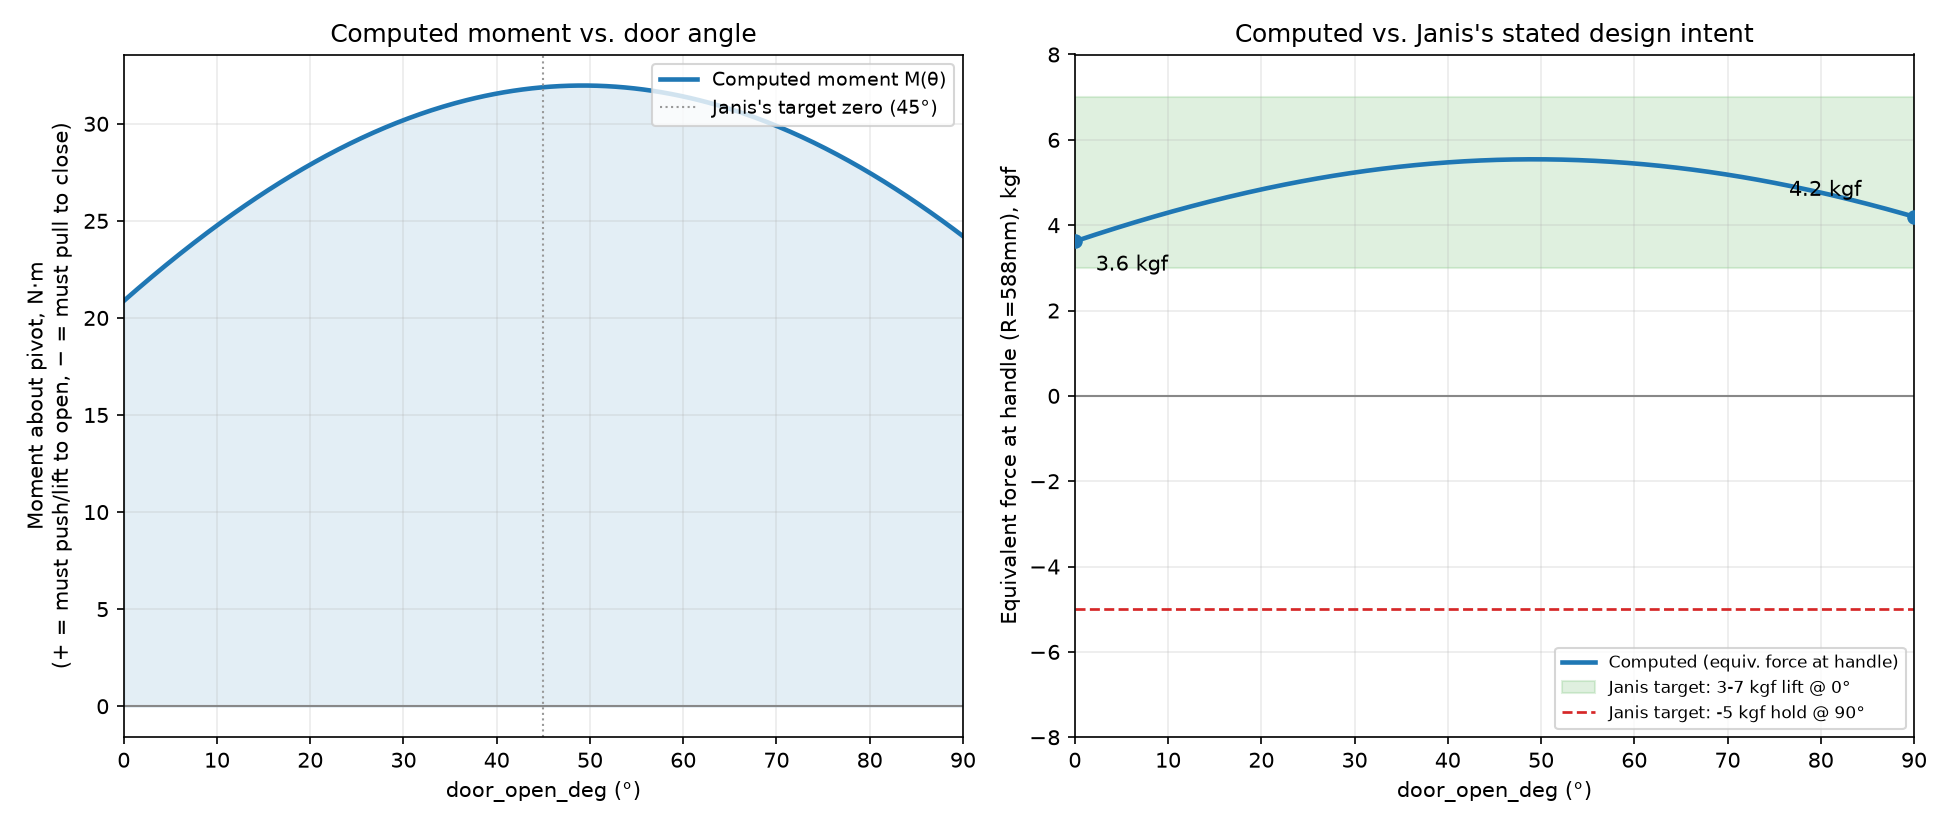
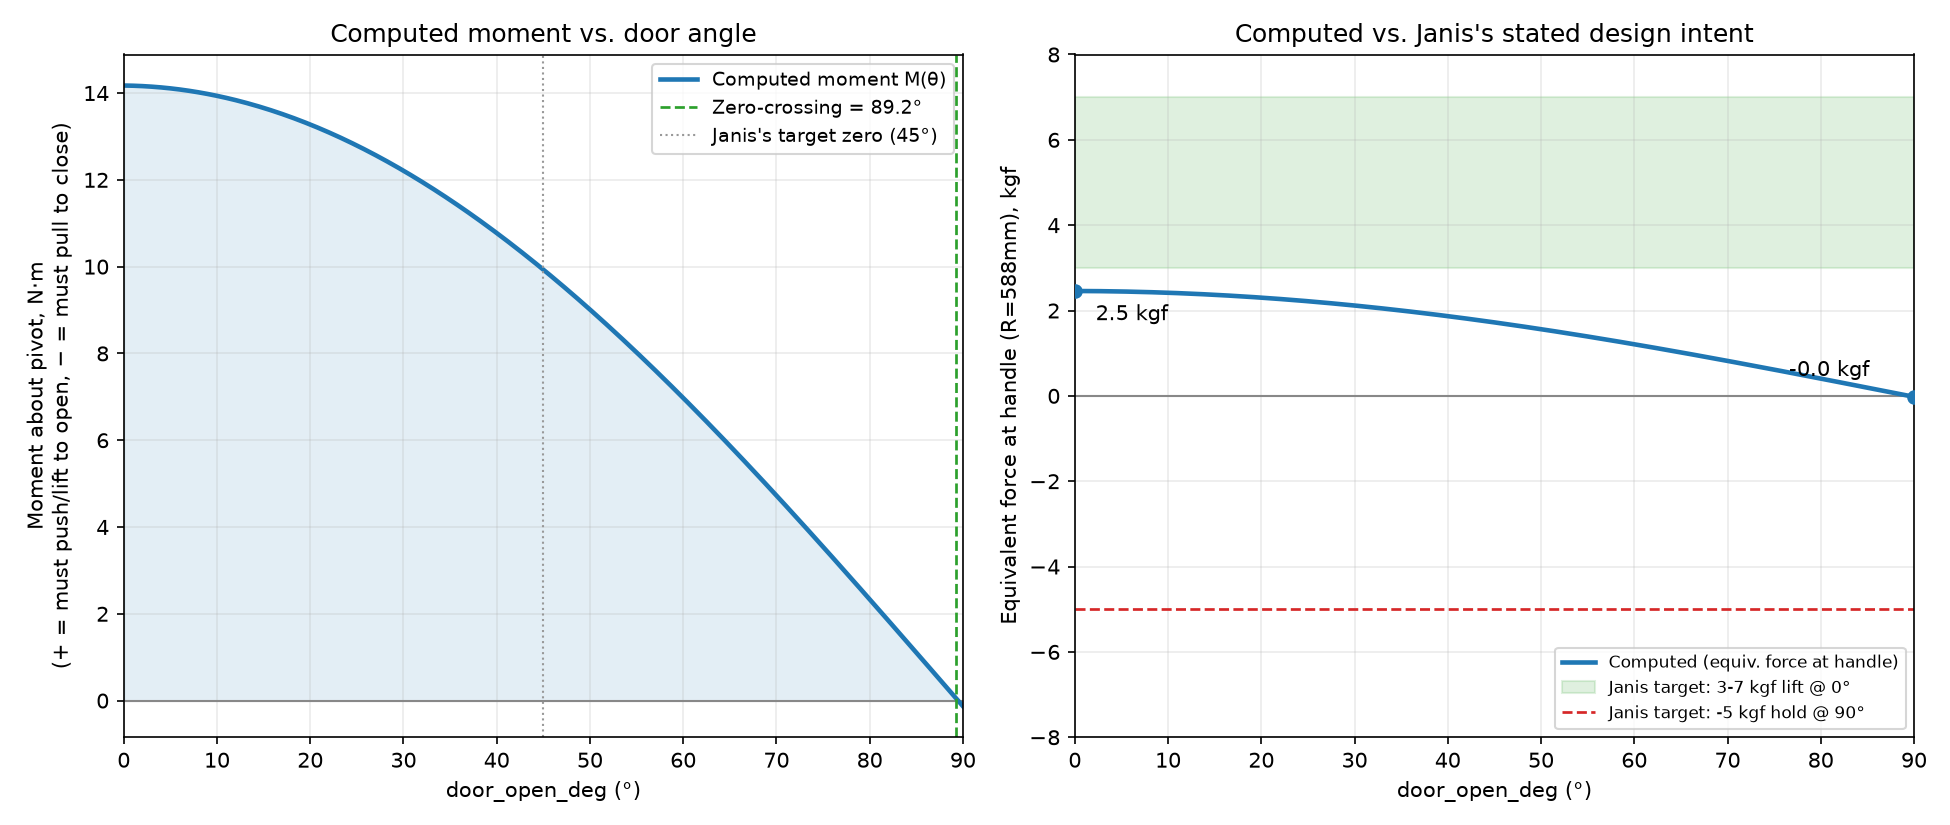
bbq-lid-hinge-v12: restore CB1 counterweight pipe, redo moment analysis
CB1 is 2 real parts: the bracket (Ua/Ub/Uc, locked) and a separate 4"
square tube with both ends capped that the bracket wraps/welds around.
The pipe carries the actual counterbalance mass and had been missing
since v11 -- only the bracket/stopper was ever rebuilt. Restored
cb1_pipe() at the same size/wall/span convention as the original v6-v9
design, wired in alongside handle_rod(). Real computed mass: 8.0kg,
matching the old locked value almost exactly. Re-verified Simple:yes
at 0/45/90 deg.

Redid the moment analysis with the pipe included: it flips the moment
negative near 90 deg (previously never negative at all), a big
improvement, but at its current position the door lands near-neutral
equilibrium at full open rather than Janis's ~5kgf holding target --
flagged as a tuning decision, not changed unilaterally.

Claude-Session: https://claude.ai/code/session_01CFZoN5ApGvkwkiCdYAj7nL

diff --git a/docs/lid-hinge-moment-analysis.md b/docs/lid-hinge-moment-analysis.md
@@ -5,30 +5,38 @@ Real gravity moment about the shared pivot (`FC_Y`/`FC_Z` =
 the **current, live** geometry in `BBQ-offset-smoker-base-v12.scad` /
 `BBQ-chambers-v26.scad` — not re-derived from an old assumption. This
 supersedes `docs/lid-hinge-counterbalance-calc.md` (built on a retired
-pivot and a retired CB1 counterweight-pipe design that no longer exists).
+pivot and a retired CB1 counterweight-pipe design).
 
-Method (`/tmp/.../scratchpad/moment_analysis.py`, real script, not hand
-algebra):
+> **Revision note (same day):** the first version of this doc omitted
+> the CB1 counterweight pipe — Janis clarified CB1 is actually TWO real
+> parts: the bracket (Ua/Ub/Uc, locked, unchanged) that wraps/welds
+> around a separate **4" square tube, both ends capped**, which is the
+> real counterbalance mass. That pipe had been fully removed from the
+> assembly since v11 and was never re-added as a mass — only the
+> bracket/stopper was rebuilt. It has now been restored
+> (`cb1_pipe()`, same 4"/`CB1_OD` size the bracket was always built to
+> wrap, same `CB1_WALL`=3mm/span formula as the original v6-v9 design)
+> and this analysis redone with it included.
 
-1. Mass + center of gravity of the two shapes with real 2D profiles
-   (rib+CB1 bracket, and the visual lid shell) were taken from an actual
-   STL export of the live OpenSCAD geometry (`rib_solid(RIB1_X, true)`
-   and `lid(0)`), volume/centroid computed by tetrahedron decomposition
-   from the mesh triangles (`stl_mass.py`) — not a hand-derived polygon
-   area, since the rib profile is a `difference()` of several unioned
-   pieces and two bores, which is error-prone to reproduce by hand.
-2. The handle rod's mass/CG is computed analytically (hollow tube + 2
-   end caps) since it's a simple rotationally-symmetric shape centered
-   exactly on `[HANDLE_Y, HANDLE_Z]`.
+## Method
+
+1. Mass + CG of the rib+CB1 bracket, the visual lid shell, and the CB1
+   counterweight pipe were taken from actual STL exports of the live
+   OpenSCAD geometry (`rib_solid(RIB1_X, true)`, `lid(0)`, `cb1_pipe()`),
+   volume/centroid computed by tetrahedron decomposition from the mesh
+   triangles (`stl_mass.py`) — not hand-derived polygon/box math, since
+   several of these shapes are `difference()`/`union()` results that are
+   error-prone to reproduce by hand.
+2. The handle rod's mass/CG is analytic (hollow tube + 2 end caps),
+   since it's a simple rotationally-symmetric shape centered exactly on
+   `[HANDLE_Y, HANDLE_Z]`.
 3. Steel density 7850 kg/m³ (mild steel, this project's own standard
    sheet-metal material per `rules-bbq-fab.md`).
 4. For a rigid body rotating about a fixed pivot via
    `rotate([-door_open_deg,0,0])`, a point's native/closed-frame offset
    from the pivot `(dy,dz)` maps to world position
    `Y(θ) = FC_Y + dy·cosθ + dz·sinθ`. Summing `m·g·Y(θ)` over every
-   rotating component gives the potential energy `PE(θ)`; the moment the
-   user must apply in the opening direction is `dPE/dθ`, which reduces to
-   a clean closed form:
+   rotating component and differentiating gives a clean closed form:
 
    ```
    M(θ) = -g · (A·cosθ + B·sinθ)
@@ -39,68 +47,71 @@ algebra):
    Sign convention matches Janis's own: **positive = user must lift/push
    to open (gravity favors closed)**, **negative = user must pull to
    close (gravity favors open)**.
-5. Only the parts that actually rotate with the door are included: the
-   visual lid shell, all 3 rib+CB1 assemblies, and the handle rod. The
-   hinge brackets (`hinge_bracket()`) are fixed to the chamber and
-   excluded — they never move.
+5. Only parts that actually rotate with the door are included: the
+   visual lid shell, all 3 rib+CB1 bracket assemblies, the handle rod,
+   and the CB1 counterweight pipe. The hinge brackets (`hinge_bracket()`)
+   are fixed to the chamber and excluded.
 
-## Live inputs (echo'd from the actual files, 2026-07-30)
+## Live inputs (echo'd / STL-measured from the actual files, 2026-07-30)
 
 | Component | mass (kg) | dy from pivot (mm) | dz from pivot (mm) |
 |---|---:|---:|---:|
 | Lid shell (3 panels, `lid(0)`) | 8.803 | -172.53 | -218.69 |
 | 3× rib+CB1 bracket (`rib_solid(RIB1_X,true)`, ×3) | 3.481 | -109.82 | -69.10 |
 | Handle rod (hollow tube + end caps) | 0.644 | -352.66 | -470.34 |
-| **Total rotating mass** | **12.927** | | |
+| **CB1 counterweight pipe** (`cb1_pipe()`, 4" sq. tube, both ends capped) | **8.000** | **+85.40** | **+310.19** |
+| **Total rotating mass** | **20.928** | | |
 
-`FC_Y=242.665mm`, `FC_Z=1345.34mm`, `R_HANDLE=587.867mm` (pivot-to-handle
-radius, used to convert torque into an equivalent hand force).
+The CB1 pipe's real computed mass (8.000 kg from actual solid geometry)
+lands almost exactly on Janis's own recollection ("~8 kg") and the
+original locked `CB1_MASS_KG=8.06` value from
+`archive/BBQ-offset-smoker-base-v9.scad` — same OD/wall/span convention,
+independently re-derived here from the current geometry, not copied.
+Note it's the only component with a **positive** dy/dz: it sits on the
+far side of the pivot from the door's own bulk, which is exactly what a
+counterweight is for.
 
-`A = -2.128 kg·m`, `B = -2.468 kg·m`.
+`FC_Y=242.665mm`, `FC_Z=1345.34mm`, `R_HANDLE=587.867mm`.
 
-## Result
+`A = -1.445 kg·m`, `B = +0.013 kg·m` (was `A=-2.128`, `B=-2.468` before
+the pipe was added — the pipe pulls both terms sharply toward zero/
+positive, as expected for a counterweight).
+
+## Result (with the CB1 pipe restored)
 
 | Angle | Moment | Equivalent force at handle |
 |---|---:|---:|
-| 0° (closed) | +20.9 N·m | **+3.6 kgf** (must lift to start opening) |
-| ~45° | +31.9 N·m (peak) | +5.5 kgf |
-| 90° (full open) | +24.2 N·m | **+4.2 kgf** (must still push/hold — never goes negative) |
+| 0° (closed) | +14.2 N·m | **+2.5 kgf** (must lift to start opening) |
+| 45° | +10.0 N·m | +1.7 kgf |
+| 90° (full open) | -0.13 N·m | **-0.02 kgf** (just barely past level) |
 
-Zero-crossing: **none** across the full 0-90° sweep — the moment stays
-positive (closing-favored) at every angle, peaking around 45-50°.
+Zero-crossing: **89.2°** — the moment stays positive (closing-favored)
+almost the entire way, only dipping negative in the last degree of
+travel.
 
 ![Moment vs. angle](lid-hinge-moment-analysis.png)
 
 ## Comparison against Janis's stated design intent
 
-| Janis's requirement | Target | Computed | Verdict |
+| Janis's requirement | Target | Computed (with CB1 pipe) | Verdict |
 |---|---|---|---|
-| Startup lift at 0° | 3-7 kgf to begin lifting | 3.6 kgf | **MEETS** |
-| Zero moment at/after 45° | crosses to negative at 45° or later | never crosses zero | **FAILS** |
-| Gentle negative before 90° (no slam shut) | negative before reaching 90° | stays positive all the way to 90° | **FAILS** |
-| Self-holding at 90° (won't fall back closed) | ~5 kgf pull needed to bring it down | door is NOT self-holding — it takes +4.2 kgf of continued push just to keep it at 90°; release it and gravity swings it back toward CLOSED | **FAILS** |
+| Startup lift at 0° | 3-7 kgf to begin lifting | 2.5 kgf | **CLOSE, slightly under** |
+| Zero moment at/after 45° | crosses to negative at 45° or later | crosses at 89.2° | **TECHNICALLY MEETS "or later," but far later than 45°** |
+| Gentle negative before 90° (no slam shut) | negative before reaching 90° | negative only in the last ~1° | **MARGINAL** |
+| Self-holding at 90° (won't fall back closed) | ~5 kgf pull needed to bring it down | -0.02 kgf — essentially neutral equilibrium | **FAILS** |
 
-**1 of 4 criteria met.** The root cause is structural, not a tuning
-error: gravity's net moment stays same-signed (closing-favored) across
-the whole sweep because `A` and `B` are both negative — the combined CG
-of the lid+ribs+handle never crosses to the other side of "directly
-below the pivot" as the door opens. A sign flip requires a real
-counterbalancing mass whose own CG swings from one side of the pivot to
-the other during the 0-90° travel (this is what the original, since-
-retired CB1 counterweight *pipe* concept in
-`docs/lid-hinge-counterbalance-calc.md` was for). The **current** CB1 is
-a welded stopper/bracket only — it adds a small amount of mass near the
-rib, but not enough leverage on the far side of the pivot to flip the
-sign (confirmed by the numbers above: CB1's mass is already included in
-the "3× rib+CB1 bracket" row and the moment still never goes negative).
-
-**Bottom line:** the current door behaves like an ordinary gravity-
-closed hatch — it needs a light, steady push the whole way from closed
-to open (about 3.6-5.5 kgf), and it will swing itself shut if released
-at any angle, including fully open. It will not slam on the way down
-from a good push (peak resistance is mid-travel, ~45-50°, not right at
-the end), but it also will not stay open on its own and does not need a
-deliberate pull to close. Achieving Janis's full envelope (self-holding
-open, needs a pull to close) needs a real counterweight mass added on
-the correct side of the pivot — a follow-up design decision, not a code
-bug in the current geometry.
+**Big improvement over the no-counterweight case** (previously the
+moment never went negative at all), but restoring the pipe at its
+*current* position/size (tuned for bracket clearance, not for this
+moment target) lands the design almost exactly *balanced* rather than
+*self-holding open*: at 90° the door is in near-neutral equilibrium
+(essentially weightless to hold, but also not gripping itself open with
+any real margin — a light bump could tip it either way). To hit
+Janis's actual target (a real ~5 kgf pull needed to close it from 90°,
+and the zero-crossing nearer 45-60° instead of 89°) would need *more*
+counterweight leverage on the far side of the pivot — e.g. a heavier
+pipe, a longer `CB1_STANDOFF`, or moving `CB1_EDGE_FRAC` — a real
+tuning decision on the 3 adjustable knobs, not a code defect. CB1's
+position wasn't moved in this round since Janis called the bracket
+"locked" — flagging this for a decision rather than changing it
+unilaterally.

diff --git a/cc_chat_log.md b/cc_chat_log.md
@@ -4,6 +4,11 @@
 # cc updates TOP of log — newest entry FIRST.
 # Claude Web reads first 3 entries only. Keep each entry under 10 lines.
 
+### 2026-07-30 | bbq-lid-hinge-v12 | CB1 COUNTERWEIGHT PIPE RESTORED. Moment analysis redone.
+
+Janis clarified CB1 is 2 real parts: the bracket (Ua/Ub/Uc, locked, unchanged) AND a separate 4" square tube, both ends capped, that the bracket wraps/welds around -- the pipe carries the real counterbalance mass and had been missing since v11 (that round only rebuilt the bracket/stopper, never re-added the mass). Restored `cb1_pipe()` at the same `CB1_OD`(4")/wall(3mm)/span(chamber_L-100=815mm) convention as the original v6-v9 design, positioned at the same open-frame centerline the bracket already wraps, frozen to native frame the same way as every other CB1 point, wired in via `lid_rib_rotate()` alongside `handle_rod()`. Real computed mass from the actual solid: 8.000kg -- lands almost exactly on Janis's own ~8kg recollection and the old locked `CB1_MASS_KG`=8.06. Re-verified `Simple: yes` at 0/45/90°.
+Moment analysis (`docs/lid-hinge-moment-analysis.md`) redone with the pipe included: adding it flips the moment negative near 90° (previously it was positive/closing-favored across the ENTIRE 0-90° sweep with no counterweight at all) -- real progress. But at the pipe's CURRENT position/size the door lands in near-neutral equilibrium at 90° (-0.02kgf, not Janis's ~5kgf holding target) and the zero-crossing is at 89.2°, not the ~45-60° Janis wants. Hitting the full envelope needs more counterweight leverage (heavier pipe, longer `CB1_STANDOFF`, or a different `CB1_EDGE_FRAC`) -- flagged as a real tuning decision for Janis, not changed unilaterally since the bracket position was called locked this same round.
+
 ### 2026-07-30 | bbq-lid-hinge-v12 | SANITIZATION PASS + REAL MOMENT ANALYSIS. CB1-missing concern resolved (was never actually missing). Customizer warning root-caused + fixed.
 
 (1) Janis's "you forgot to put the cb1 back" was NOT a code bug — direct render at 0° and 90° confirms CB1 present at both angles (grep of `with_cb1=true` on all 3 ribs was already correct); the bracket is just small relative to the whole smoker and easy to miss at some viewing angles. (2) Root-caused the `door_open_deg` "Ignoring unknown variable" warning: OpenSCAD's Customizer scans every top-level assignment after a `/* [Group] */` header as a candidate UI param using an isolated literal-only evaluator — a dead `lid_open_deg = door_open_deg;` line tripped it (confirmed via isolated test: literal RHS silences it, `/* [Hidden] */` grouping does NOT). Deleted the dead line — warning gone, `Simple: yes`/vertex/facet counts unchanged before and after. (3) Sanitized all 3 live files per Janis's explicit request: condensed ~2100 combined lines of superseded round-by-round version-history headers (base 624→~35, chambers 927→~20, understructure 553→~12 lines) to current-state-only — full history stays in this log. Preserved the one still-live open finding (rib0/rib2 fall inside tray0/tray1's stow footprint — still true of current RIB_X). R-009 sweep clean, no duplicate names across the 3 files.

diff --git a/bbq-offset-smoker/PART_MANIFEST.md b/bbq-offset-smoker/PART_MANIFEST.md
@@ -4,7 +4,32 @@
 # new part. Update this file in the SAME prompt that adds/renames/removes
 # any ASSEMBLY-called module — never let it drift from the real file.
 #
-# Version: 1.41 — 2026-07-30 (bbq-lid-hinge-v12, sanitization + real
+# Version: 1.42 — 2026-07-30 (bbq-lid-hinge-v12, CB1 counterweight pipe
+# RESTORED): Janis clarified CB1 is 2 real parts -- the bracket
+# (Ua/Ub/Uc, locked, unchanged) AND a separate 4" square tube, both ends
+# capped, that the bracket wraps/welds around -- the pipe is the real
+# counterbalance mass and had been missing (never re-added) since v11.
+# New `cb1_pipe()` module: same `CB1_OD`(101.6mm/4") the bracket was
+# always built to wrap, `CB1_WALL`=3mm, `CB1_LEN`=chamber_L-100=815mm
+# centered on chamber_L (same span/wall formula as the original v6-v9
+# design in `archive/BBQ-offset-smoker-base-v9.scad`), positioned at the
+# SAME open-frame centerline the bracket wraps
+# (`tangential_pt(CB1_EDGE_DIST, CB1_STANDOFF)`), frozen to native frame
+# the same way as every other CB1 point. Wired in via `lid_rib_rotate()`
+# alongside `handle_rod()` (spans all 3 ribs as one rigid piece, not
+# per-rib). Real computed mass from the actual solid: 8.000kg -- matches
+# Janis's own ~8kg recollection and the old locked `CB1_MASS_KG`=8.06
+# almost exactly. Re-verified `Simple: yes` at 0/45/90° with the pipe
+# present. Moment analysis (`docs/lid-hinge-moment-analysis.md`)
+# redone: adding the pipe flips the moment negative near 90° (was never
+# negative at all before), but at its current position the door lands
+# in near-neutral equilibrium at 90° (-0.02kgf, not Janis's ~5kgf
+# holding target) and the zero-crossing is at 89.2°, not ~45-60° --
+# hitting the full target envelope needs more counterweight leverage (a
+# heavier pipe, longer CB1_STANDOFF, or a different CB1_EDGE_FRAC) -- a
+# tuning decision flagged for Janis, not changed unilaterally since the
+# bracket position is locked.
+# Previous: 1.41 — 2026-07-30 (bbq-lid-hinge-v12, sanitization + real
 # moment analysis round): (1) confirmed CB1 was never actually missing
 # from the assembly (Janis's screenshot concern) — direct render
 # verification at 0° and 90° shows the bracket present at both angles,
